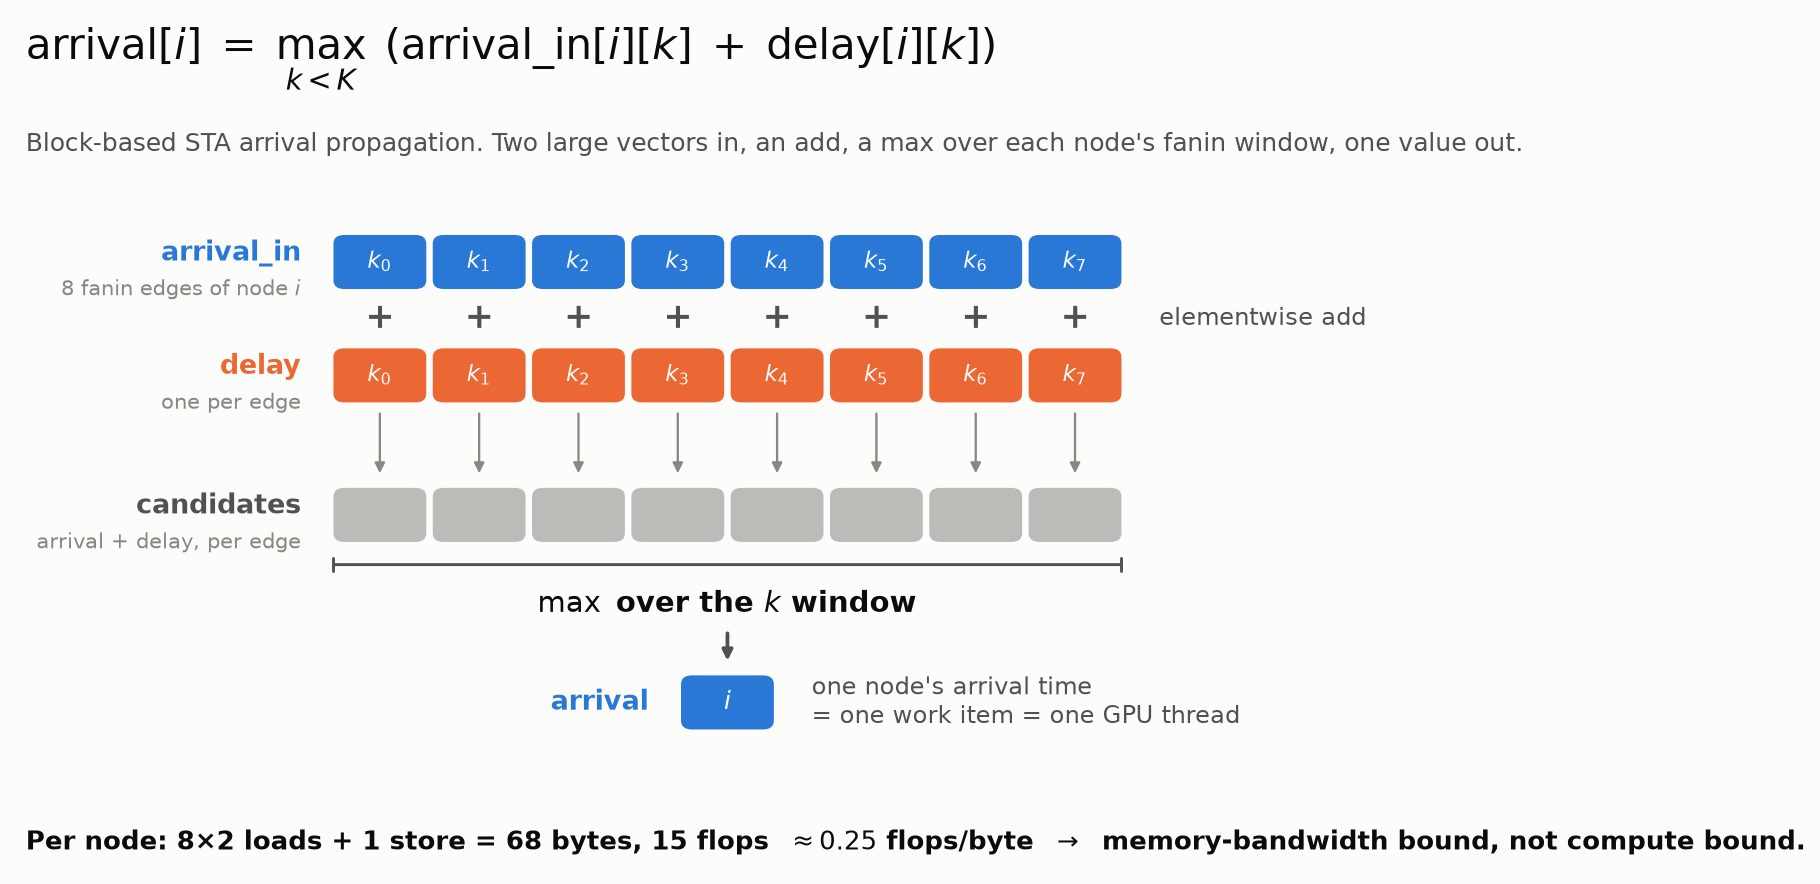
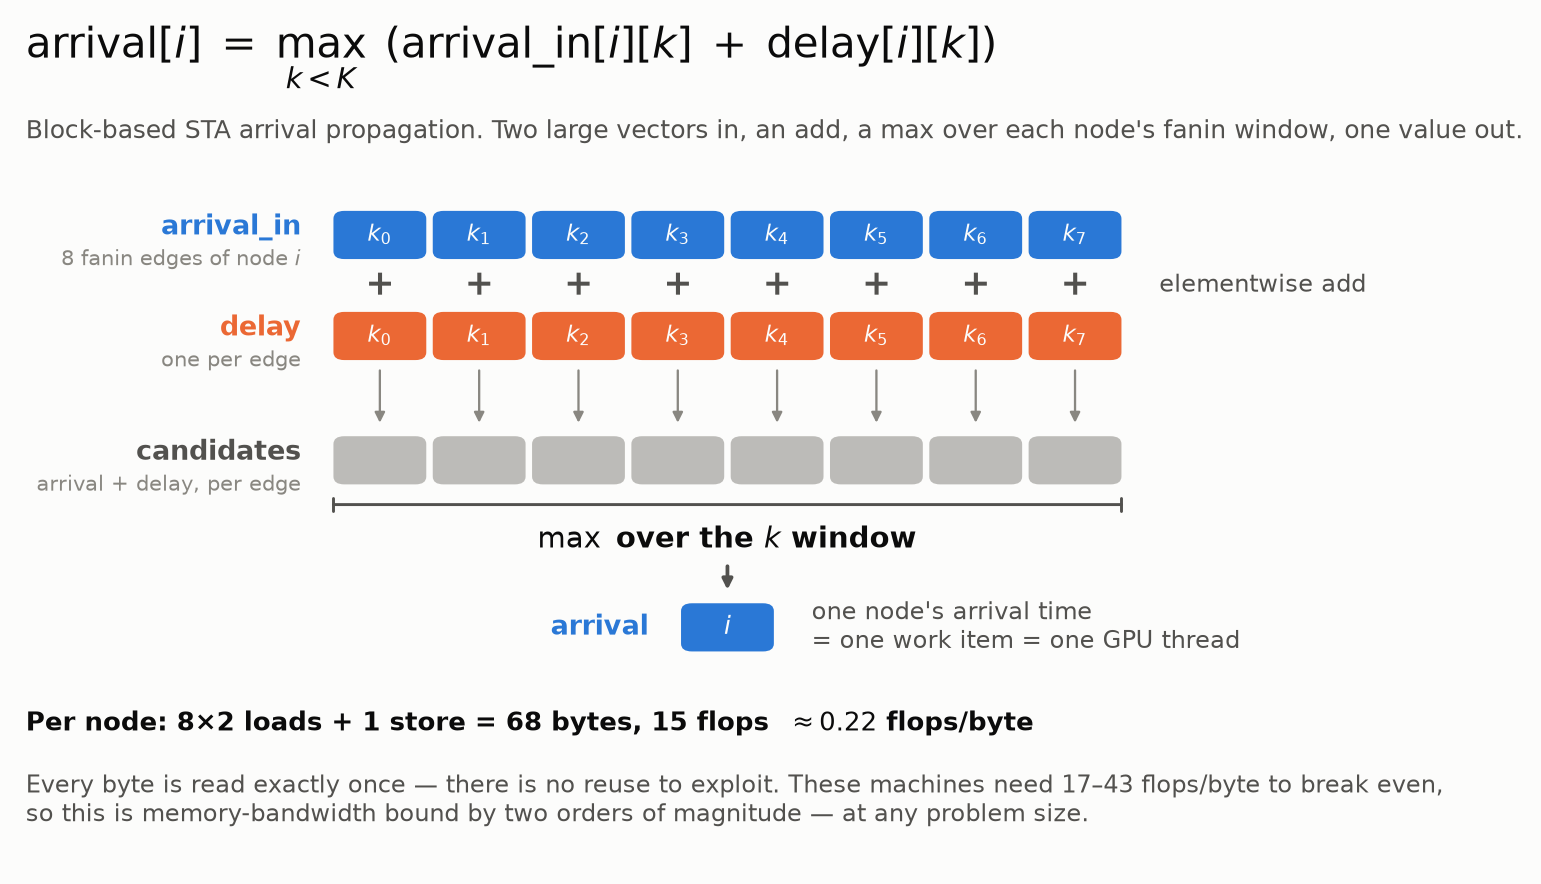
Correct arithmetic intensity to 0.22 and justify memory-bound claim
15 flops over 68 bytes is 0.22 flops/byte, not the 0.25 stated
throughout. Corrected in the figure, README, speaker notes and sta.hpp.

The figure and script now also say WHY that means memory bound rather
than asserting it. Three levels: every byte is read exactly once so
there is no reuse and the intensity is constant in problem size; machine
balance is 28 / 43 / 17 flops-per-byte on the i5, A4000 and H100, which
puts the kernel two orders of magnitude inside the memory-bound regime;
and empirically the kernel reaches 96% of the A4000 peak memory
bandwidth, which cannot happen if compute is the limit.

Worth noting the direction: H100 has the LOWEST balance of the three,
because bandwidth grew faster than FP32 throughput. Newer hardware does
not rescue a low-intensity kernel.

Claude-Session: https://claude.ai/code/session_01M43UAssLWb3wFebvbjxnoM

diff --git a/draw_problem.py b/draw_problem.py
@@ -49,7 +49,7 @@ def draw(theme):
     fig.patch.set_facecolor(t["surface"])
     ax.set_facecolor(t["surface"])
     ax.set_xlim(-2.6, 11.4)
-    ax.set_ylim(-1.3, 8.5)
+    ax.set_ylim(-2.5, 8.5)
     ax.axis("off")
 
     x0 = 0.35
@@ -115,12 +115,18 @@ def draw(theme):
             ha="left", va="top", color=t["ink2"], fontsize=12)
 
     # --- the number that decides everything ---------------------------------
-    ax.text(-2.5, -1.15,
-            f"Per node: {FANIN}×2 loads + 1 store = {FANIN * 2 * 4 + 4} bytes, "
-            f"{FANIN * 2 - 1} flops  "
-            r"$\approx 0.25$ flops/byte  $\rightarrow$  memory-bandwidth bound, "
-            "not compute bound.",
+    bytes_per_node = FANIN * 2 * 4 + 4
+    ops_per_node = FANIN * 2 - 1  # kFanin adds + (kFanin-1) maxes
+    ax.text(-2.5, -0.80,
+            f"Per node: {FANIN}×2 loads + 1 store = {bytes_per_node} bytes, "
+            f"{ops_per_node} flops  "
+            rf"$\approx {ops_per_node / bytes_per_node:.2f}$ flops/byte",
             ha="left", va="bottom", color=t["ink"], fontsize=12.5, fontweight="bold")
+    ax.text(-2.5, -1.25,
+            "Every byte is read exactly once — there is no reuse to exploit. These "
+            "machines need 17–43 flops/byte to break even,\nso this is "
+            "memory-bandwidth bound by two orders of magnitude — at any problem size.",
+            ha="left", va="top", color=t["ink2"], fontsize=11.5)
 
     out = FIGS if theme == "light" else os.path.join(FIGS, "dark")
     os.makedirs(out, exist_ok=True)

diff --git a/src/sta.hpp b/src/sta.hpp
@@ -17,7 +17,7 @@
 // like this is what GPU STA implementations actually do.
 //
 // ARITHMETIC INTENSITY. Per node: K*8 bytes read + 4 bytes written, against
-// K adds and K-1 maxes. About 0.25 flops/byte -- this kernel is bound by
+// K adds and K-1 maxes. About 0.22 flops/byte -- this kernel is bound by
 // memory bandwidth, not by arithmetic. That is the honest STA regime, and it
 // is why the GPU advantage here tracks the bandwidth ratio rather than the
 // FLOP ratio.
@@ -44,7 +44,7 @@ namespace sta {
 constexpr int kFanin = STA_FANIN;
 
 // Values are float, not double, and that is a bandwidth decision rather than a
-// precision one. This kernel is memory bound at ~0.25 flops/byte, so doubles
+// precision one. This kernel is memory bound at ~0.22 flops/byte, so doubles
 // would move 136 bytes per node instead of 68 and roughly halve throughput on
 // CPU and GPU alike. (On the RTX A4000 doubles would also hit a 1/64-rate FP64
 // path; on H100/GH200 FP64 runs at 1/2 rate, so there the cost really is just

diff --git a/SECTION1_SCRIPT.md b/SECTION1_SCRIPT.md
@@ -238,6 +238,50 @@ paraphrase.
 - **Numbers you must know cold:** 2.2× · 5,000× · 8× · 96%. Everything else can
   be read off the slide.
 
+### "Why is it memory bound?" — the three answers, shortest first
+
+This is the question a GPU person in the room will ask, and you should be able to
+answer it at whatever depth they want.
+
+**1. The intuition (say this first — it is the real reason).**
+
+> "Every byte is read exactly once. There is no reuse to exploit — each timing
+> edge is touched by exactly one node, so there is nothing to cache, nothing to
+> tile, nothing to block. Compare it with matrix multiply, where you do N³ work on
+> N² data: there the intensity *grows* with the problem, so you can tile your way
+> into being compute bound. Here the intensity is a constant, and it's tiny. You
+> cannot make this compute bound by making the problem bigger."
+
+**2. The arithmetic (if they want the number).**
+
+Per node: 8 arrival loads + 8 delay loads + 1 store = **68 bytes**, against 8 adds
+and 7 maxes = **15 flops**. That is **0.22 flops/byte**. (If you only count the
+adds as real FLOPs it is 0.12 — even further down.)
+
+Now compare it against *machine balance* — peak FLOP/s ÷ peak bytes/s, the
+intensity at which a machine stops being memory limited:
+
+| machine | balance | kernel is below it by |
+|---|---:|---:|
+| i5-13500 (~1.4 TF FP32, 49 GB/s) | 28 flops/byte | 127× |
+| RTX A4000 (19.2 TF, 448 GB/s) | 43 flops/byte | 194× |
+| H100 / GH200 (67 TF, 4023 GB/s) | 17 flops/byte | 75× |
+
+> "You need something like seventeen to forty flops per byte before arithmetic
+> starts to matter on these machines. We have a fifth of one. We're two orders of
+> magnitude into the memory-bound regime — it isn't close."
+
+Note the direction: the **H100 has the *lowest* balance** of the three, because its
+bandwidth grew faster than its FP32 throughput. Newer hardware doesn't rescue
+you here.
+
+**3. The proof (if someone is still unconvinced — this ends it).**
+
+> "We don't actually have to argue about it. The kernel achieves 430 gigabytes a
+> second against a card peak of 448 — ninety-six percent of the memory bandwidth
+> of the device. You cannot saturate memory bandwidth *and* be compute bound.
+> That measurement is the answer."
+
 ### Likely questions in this section
 
 **"Your CPU baseline isn't optimised."** It's `par_unseq`, so it's threaded and

diff --git a/README.md b/README.md
@@ -39,7 +39,7 @@ work item is a 10 ms blocking sleep, so their curve peaks and collapses. Ours is
 **Open decisions**
 
 - A roofline chart is **not** built. Recommended as a backup slide rather than one
-  of the main four: it turns the measurement into a prediction (0.25 flops/byte →
+  of the main four: it turns the measurement into a prediction (0.22 flops/byte →
   speedup should equal the bandwidth ratio; 448/49 = 9.1 predicted vs 8.8
   measured), which is useful when re-running on new hardware.
 
@@ -162,8 +162,12 @@ Two large vectors, an elementwise add, a max-reduction over each node's fanin
 window. 8M nodes × 8 fanin = **64M timing edges, 544 MB working set** — 22× this
 machine's L3, so nothing is hiding in cache.
 
-Per node it moves 68 bytes and does 15 flops: **~0.25 flops/byte**. This kernel is
-bound by memory bandwidth, not arithmetic. That is the honest STA regime, and it
+Per node it moves 68 bytes and does 15 flops: **0.22 flops/byte**. Machine balance
+(peak FLOP/s ÷ peak bytes/s) is 28 on this CPU, 43 on the A4000 and 17 on an
+H100 — so the kernel sits two orders of magnitude inside the memory-bound regime,
+and no problem size changes that, because every byte is read exactly once and
+there is no reuse to exploit. This kernel is bound by memory bandwidth, not
+arithmetic. That is the honest STA regime, and it
 is why every result below tracks bandwidth ratios rather than FLOP ratios.
 
 ## Results on this machine

diff --git a/SPEAKER_NOTES.md b/SPEAKER_NOTES.md
@@ -163,7 +163,7 @@ deep paths, which is a numerics discussion, not a precision-of-storage one — a
 FP64 on this card runs at 1/64 rate, which is exactly why the choice matters.
 
 **"You're measuring bandwidth, not timing analysis."**
-Yes — deliberately. That IS the finding. If your kernel is 0.25 flops per byte,
+Yes — deliberately. That IS the finding. If your kernel is 0.22 flops per byte,
 the only number that predicts your runtime is bandwidth.
 
 ---
